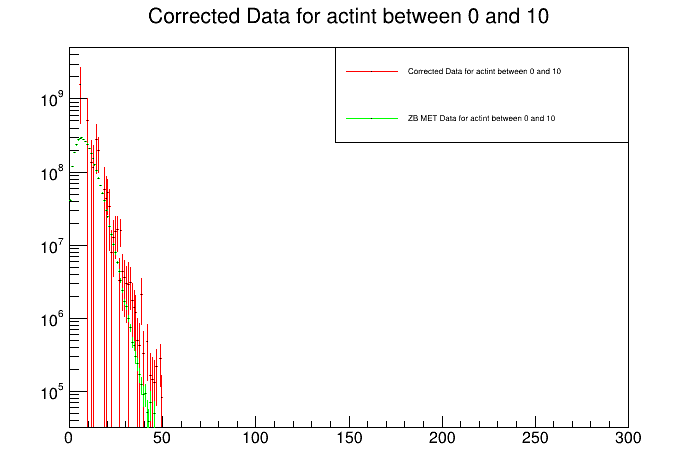
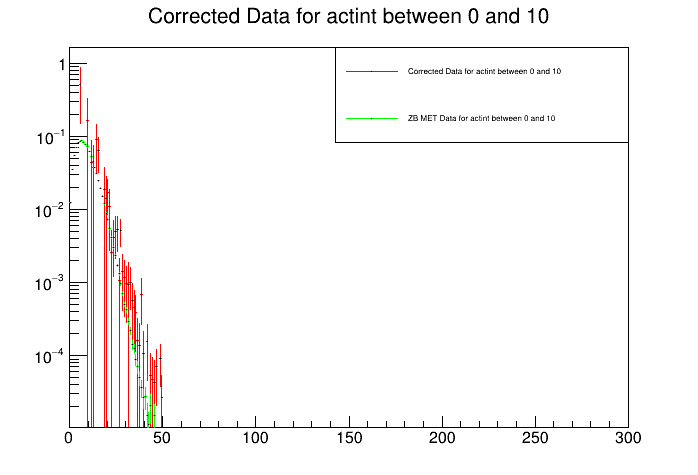
Finally got the images I was looking for with the proper relative normalization

diff --git a/Mu_Analysis/PerformCorrection/CorrectingDistributions.C b/Mu_Analysis/PerformCorrection/CorrectingDistributions.C
@@ -95,43 +95,41 @@ Double_t CorrectingDistributions::ComputeWeight(TF1* fitFunc)//{{{
 }//}}}
 void CorrectingDistributions::SlaveTerminate(){}
 void CorrectingDistributions::Terminate(){
-
-
-    TCanvas* check_canvas = new TCanvas("check","checking shapes of two distributinos");
-    std::cout << zbMETMuBin40thru50->Integral() << std::endl;
-    std::cout << MET_Correctedmu40thru50->Integral() << std::endl;
-    zbMETMuBin40thru50->Draw();
-    MET_Correctedmu40thru50->Draw("SAME");
-    TLegend* check_legend = new TLegend();
-    check_legend->AddEntry( zbMETMuBin40thru50 );
-    check_legend->AddEntry( MET_Correctedmu40thru50 );
-    check_legend->Draw("SAME");
-    check_canvas->SetLogy();
-
 	// DETERMINE Relative Normalization Distributions
-    Float_t normalization_thresh = 40.0;
-    Int_t thresh_bin = zbMETMuBin40thru50->GetBin( normalization_thresh );
-    printf("Thresh bin: %d\n" , thresh_bin );
-    Double_t initial_bin_content = zbMETMuBin40thru50->GetBinContent( thresh_bin );
-    std::cout << "ZB MET Bin Content: " << initial_bin_content << std::endl;
-    Double_t initial_bin_content_corrected = MET_Correctedmu40thru50->GetBinContent( thresh_bin );
-    std::cout << "Corrected MET Bin Content: " << initial_bin_content_corrected << std::endl;
-    Double_t scale_factor = initial_bin_content / initial_bin_content_corrected;
-    std::cout << "Scale Factor: " << scale_factor << std::endl;
-    // These should be the same for all of the histograms, because the ticks should be the same 
+    // BinWidth = 1.0 GeV
+    Float_t normalization_bin = 40; // corresponds to 40 GeV
+    // Scale the corrected ones to the original zb ones
+    Double_t scale_factor1 = zbMETMuBin0thru10->GetBinContent( normalization_bin ) / MET_Correctedmu0thru10->GetBinContent( normalization_bin );
+    Double_t scale_factor2 = zbMETMuBin10thru20->GetBinContent( normalization_bin ) / MET_Correctedmu10thru20->GetBinContent( normalization_bin );
+    Double_t scale_factor3 = zbMETMuBin20thru30->GetBinContent( normalization_bin ) / MET_Correctedmu20thru30->GetBinContent( normalization_bin );
+    Double_t scale_factor4 = zbMETMuBin30thru40->GetBinContent( normalization_bin ) / MET_Correctedmu30thru40->GetBinContent( normalization_bin );
+    Double_t scale_factor5 = zbMETMuBin40thru50->GetBinContent( normalization_bin ) / MET_Correctedmu40thru50->GetBinContent( normalization_bin );
+    Double_t scale_factor6 = zbMETMuBin50thru60->GetBinContent( normalization_bin ) / MET_Correctedmu50thru60->GetBinContent( normalization_bin );
+    Double_t scale_factor7 = zbMETMuBin60thru70->GetBinContent( normalization_bin ) / MET_Correctedmu60thru70->GetBinContent( normalization_bin );
+
+    zbMETMuBin0thru10->SetNormFactor(1.);
+    zbMETMuBin10thru20->SetNormFactor(1.);
+    zbMETMuBin20thru30->SetNormFactor(1.);
+    zbMETMuBin30thru40->SetNormFactor(1.);
     zbMETMuBin40thru50->SetNormFactor(1.);
+    zbMETMuBin50thru60->SetNormFactor(1.);
+    zbMETMuBin60thru70->SetNormFactor(1.);
+
+    MET_Correctedmu0thru10->SetNormFactor(1.);
+    MET_Correctedmu10thru20->SetNormFactor(1.);
+    MET_Correctedmu20thru30->SetNormFactor(1.);
+    MET_Correctedmu30thru40->SetNormFactor(1.);
     MET_Correctedmu40thru50->SetNormFactor(1.);
+    MET_Correctedmu50thru60->SetNormFactor(1.);
+    MET_Correctedmu60thru70->SetNormFactor(1.);
 
-    MET_Correctedmu40thru50->Scale( scale_factor );
-    Double_t scaled_bin_content_corrected = MET_Correctedmu40thru50->GetBinContent( thresh_bin ) ;
-    std::cout << "Corrected MET Bin Content After Scaling: " << MET_Correctedmu40thru50->GetBinContent( thresh_bin ) << std::endl;
-
-
-    if ( abs( scaled_bin_content_corrected - initial_bin_content ) < 5 ){
-        printf("Bin content of corrected matches initial zb after relative normalization: True\n");
-    }
-
-
+    MET_Correctedmu0thru10->Scale( scale_factor1 );
+    MET_Correctedmu10thru20->Scale( scale_factor2 );
+    MET_Correctedmu20thru30->Scale( scale_factor3 );
+    MET_Correctedmu30thru40->Scale( scale_factor4 );
+    MET_Correctedmu40thru50->Scale( scale_factor5 );
+    MET_Correctedmu50thru60->Scale( scale_factor6 );
+    MET_Correctedmu60thru70->Scale( scale_factor7 );
 
     //}}}
 
